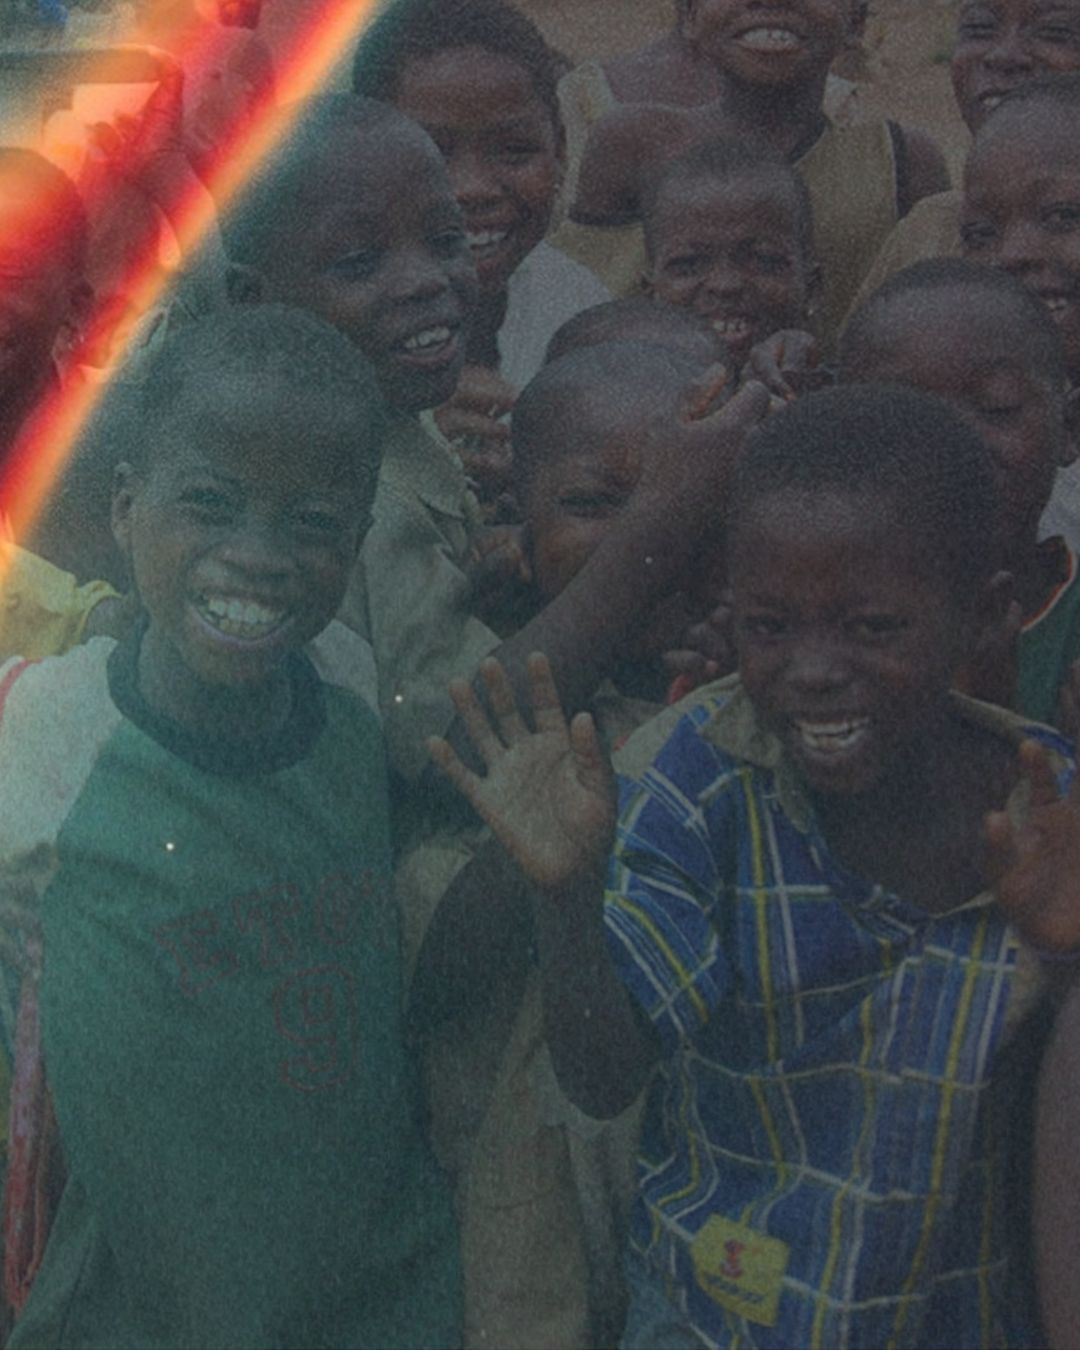
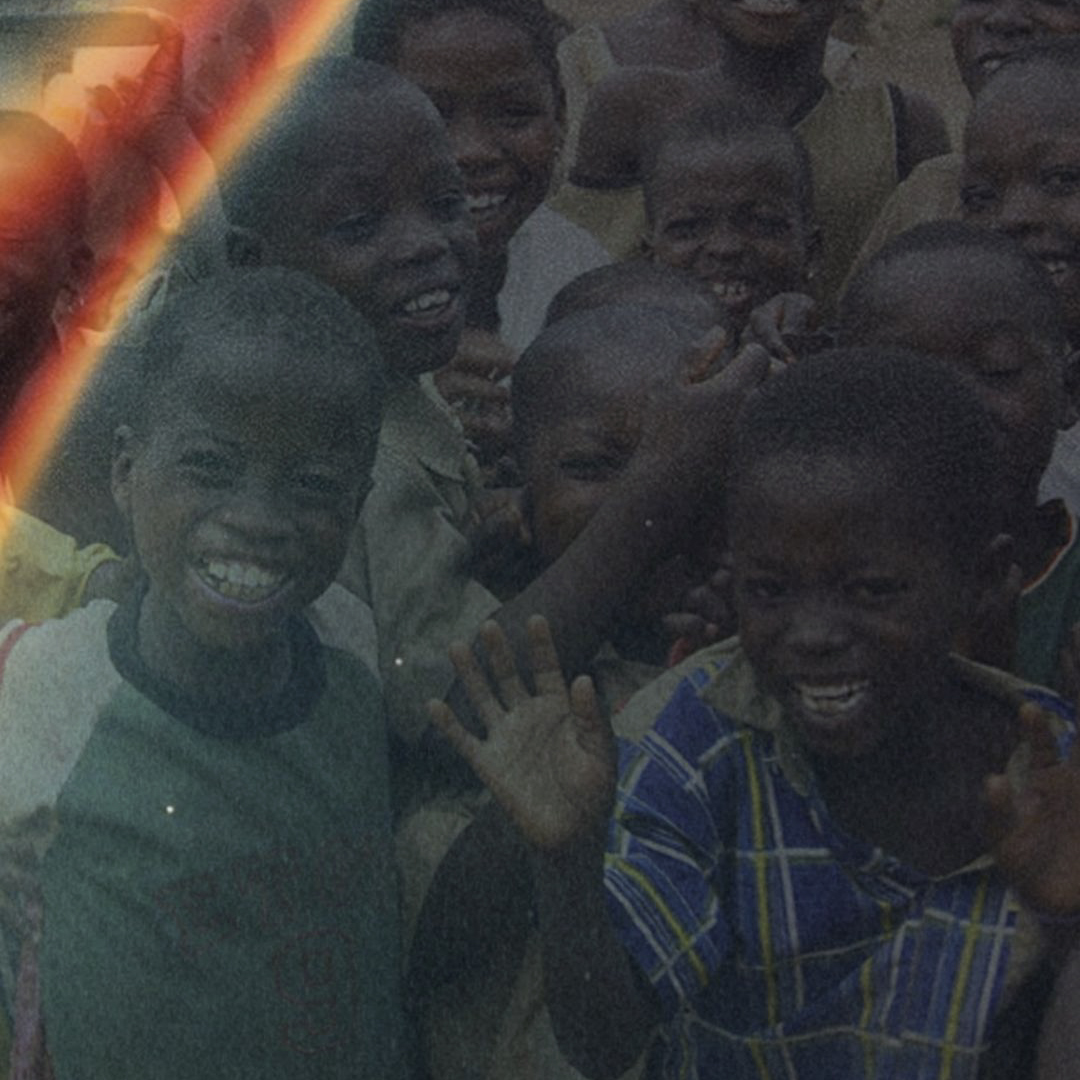
“modificaciones”

diff --git a/resources/views/general/fragmentos/header.blade.php b/resources/views/general/fragmentos/header.blade.php
@@ -35,7 +35,7 @@
                   <a href="/lideres" class="block px-5 py-3 text-sm/6 font-semibold text-base-content hover:bg-white/5">Red de líderes</a>
                   <a href="/misiones" class="block px-5 py-3 text-sm/6 font-semibold text-base-content hover:bg-white/5">Misiones</a>
                   <a href="/podcast" class="block px-5 py-3 text-sm/6 font-semibold text-base-content hover:bg-white/5">Podcast</a>
-                  <a href="#devocional" class="block px-5 py-3 text-sm/6 font-semibold text-base-content hover:bg-white/5">Devocional</a>
+                  <a href="/devocional" class="block px-5 py-3 text-sm/6 font-semibold text-base-content hover:bg-white/5">Devocional</a>
                </div>
             </el-popover>
          </div>
@@ -78,7 +78,7 @@
                               <a href="/lideres" class="block rounded-lg py-2 pr-3 pl-6 text-sm/7 font-semibold text-base-content hover:bg-white/5">Red de líderes</a>
                               <a href="/misiones" class="block rounded-lg py-2 pr-3 pl-6 text-sm/7 font-semibold text-base-content hover:bg-white/5">Misiones</a>
                               <a href="/podcast" class="block rounded-lg py-2 pr-3 pl-6 text-sm/7 font-semibold text-base-content hover:bg-white/5">Podcast</a>
-                              <a href="#devocional" class="block rounded-lg py-2 pr-3 pl-6 text-sm/7 font-semibold text-base-content hover:bg-white/5">Devocional</a>
+                              <a href="/devocional" class="block rounded-lg py-2 pr-3 pl-6 text-sm/7 font-semibold text-base-content hover:bg-white/5">Devocional</a>
                            </el-disclosure>
                         </div>
 

diff --git a/resources/views/movimiento/misiones.blade.php b/resources/views/movimiento/misiones.blade.php
@@ -53,23 +53,6 @@
                   </div>
                </div>
 
-               {{-- Video --}}
-               <div class="mx-auto mt-28 max-w-5xl">
-                  <h3 class="text-3xl font-semibold text-center mb-8">
-                     Vive la experiencia
-                  </h3>
-
-                  <div class="aspect-video rounded-3xl overflow-hidden shadow-2xl">
-                     <iframe
-                        class="w-full h-full"
-                        src="https://www.youtube.com/watch?v=Xb3aMnUn8_A"
-                        title="Guinea Ecuatorial"
-                        frameborder="0"
-                        allowfullscreen>
-                     </iframe>
-                  </div>
-               </div>
-
                {{-- CTA --}}
                <div class="text-center mt-20">
                   <h3 class="text-3xl font-semibold mb-6">
